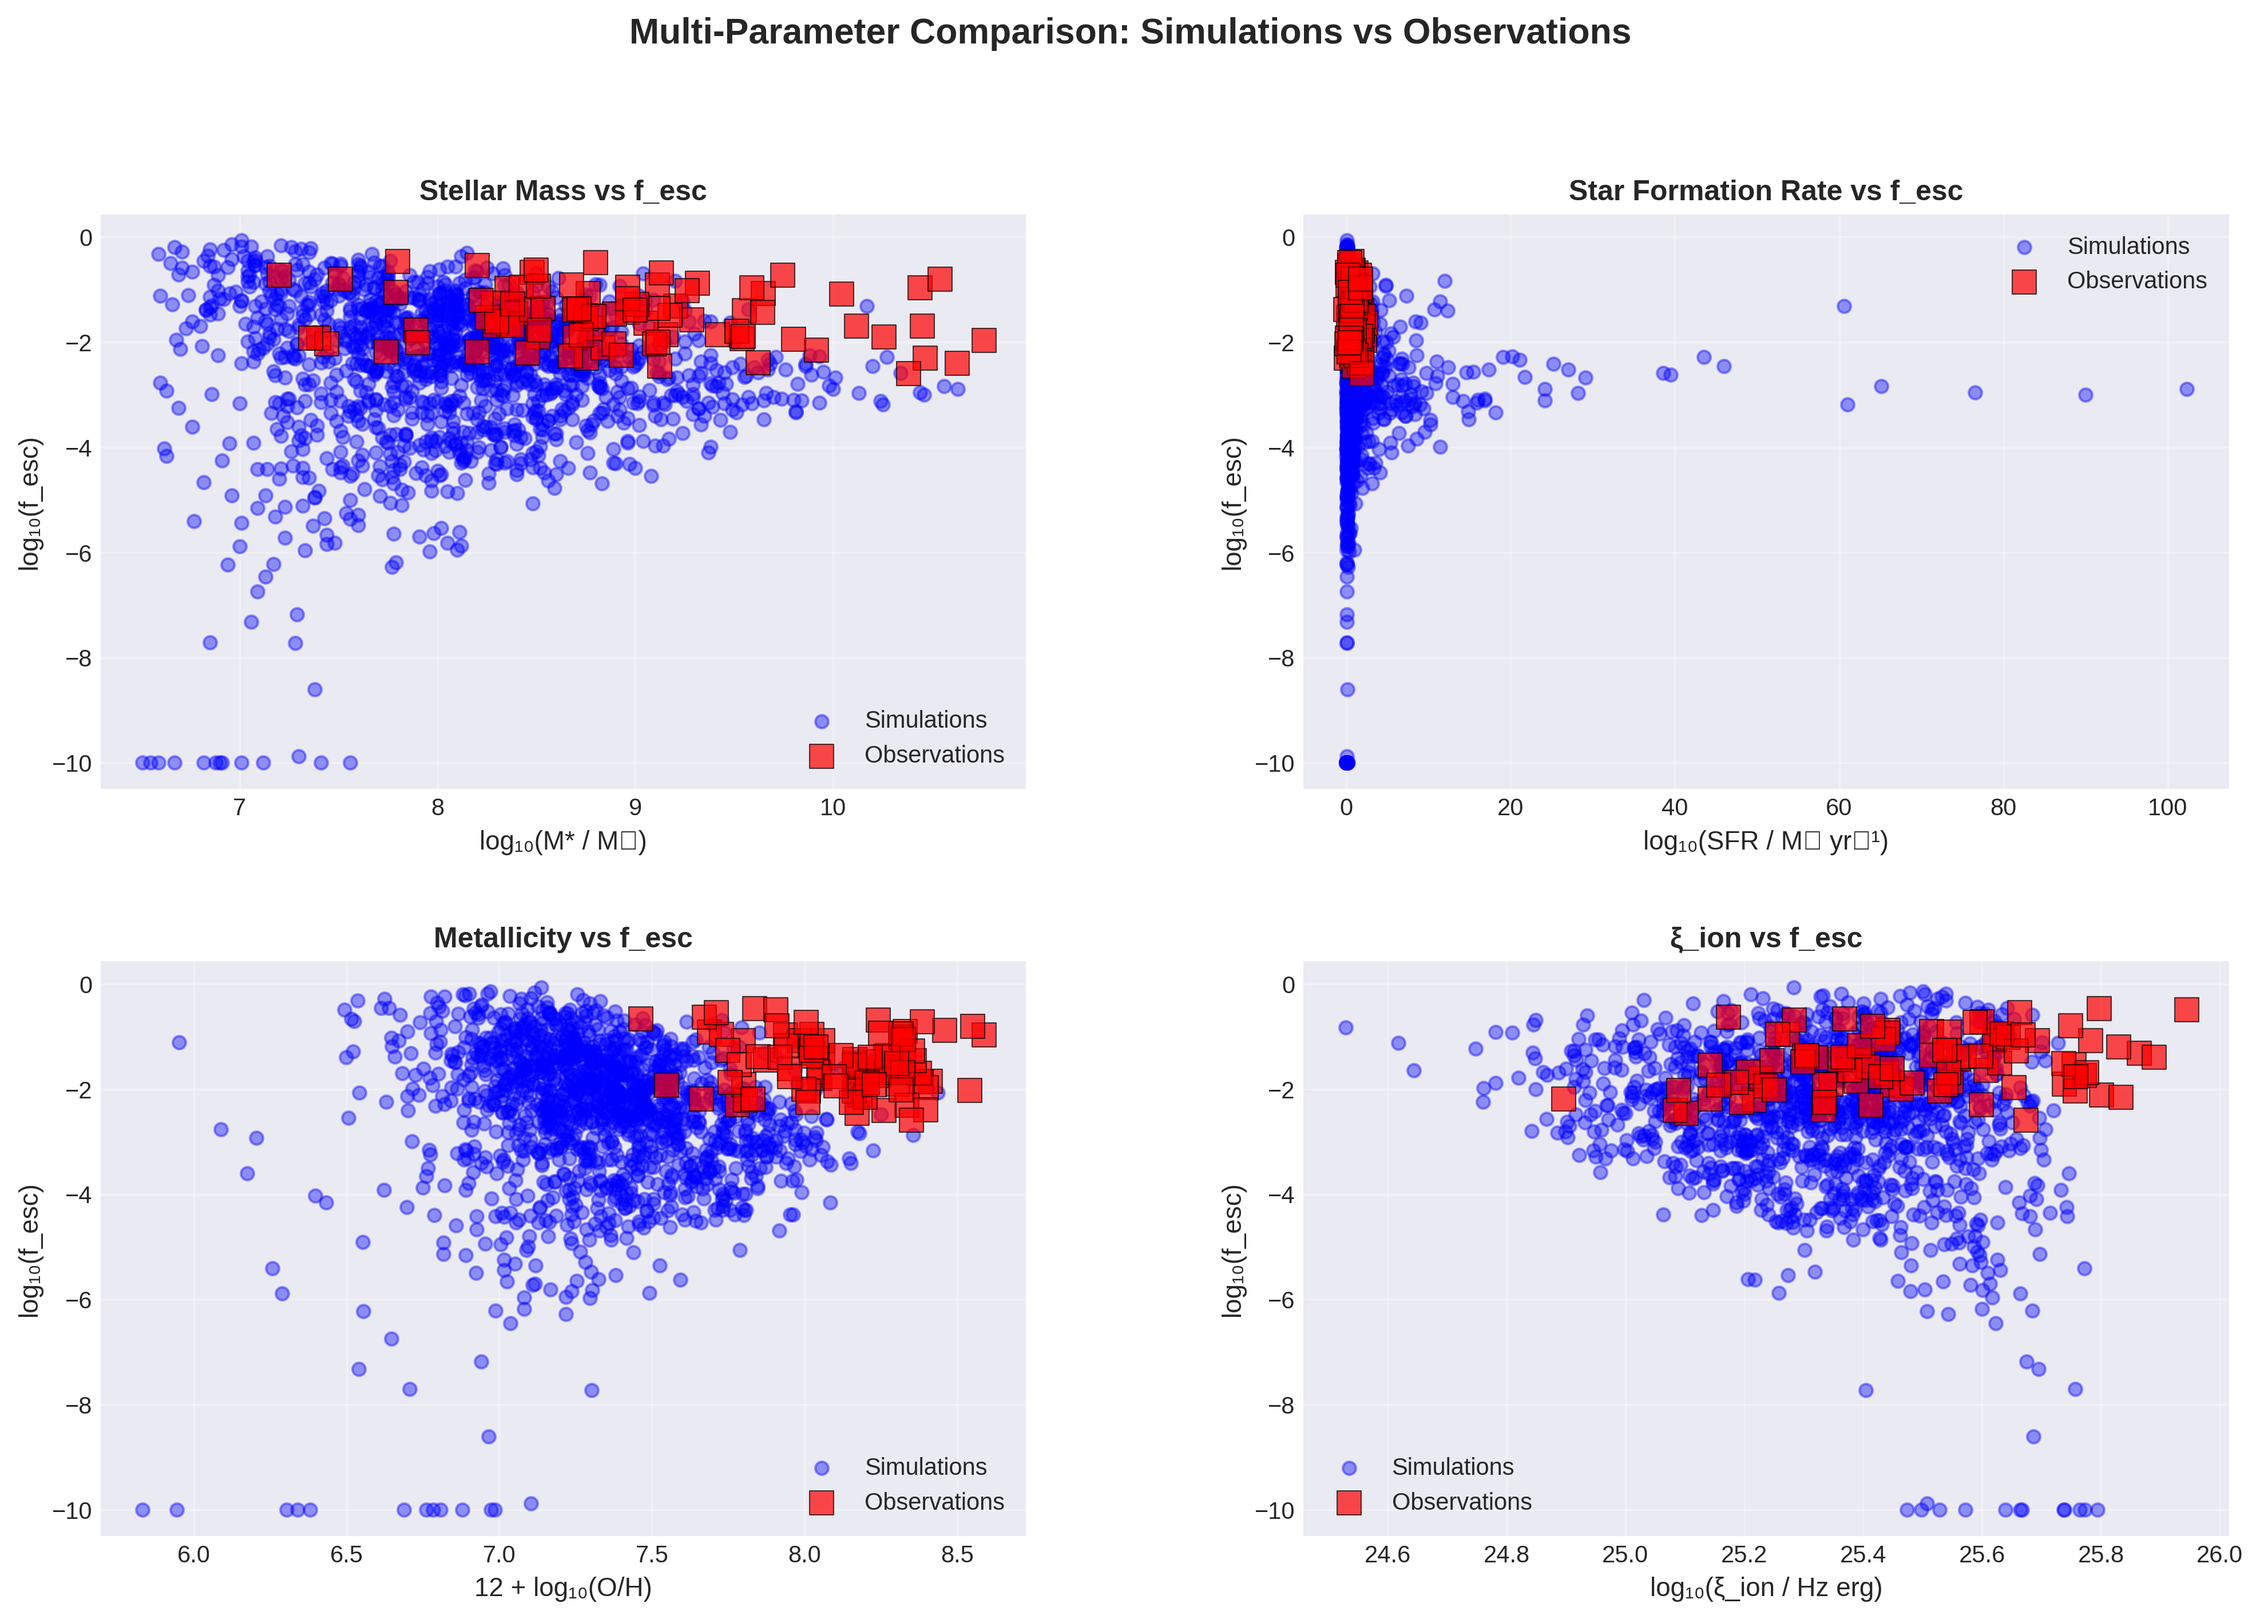
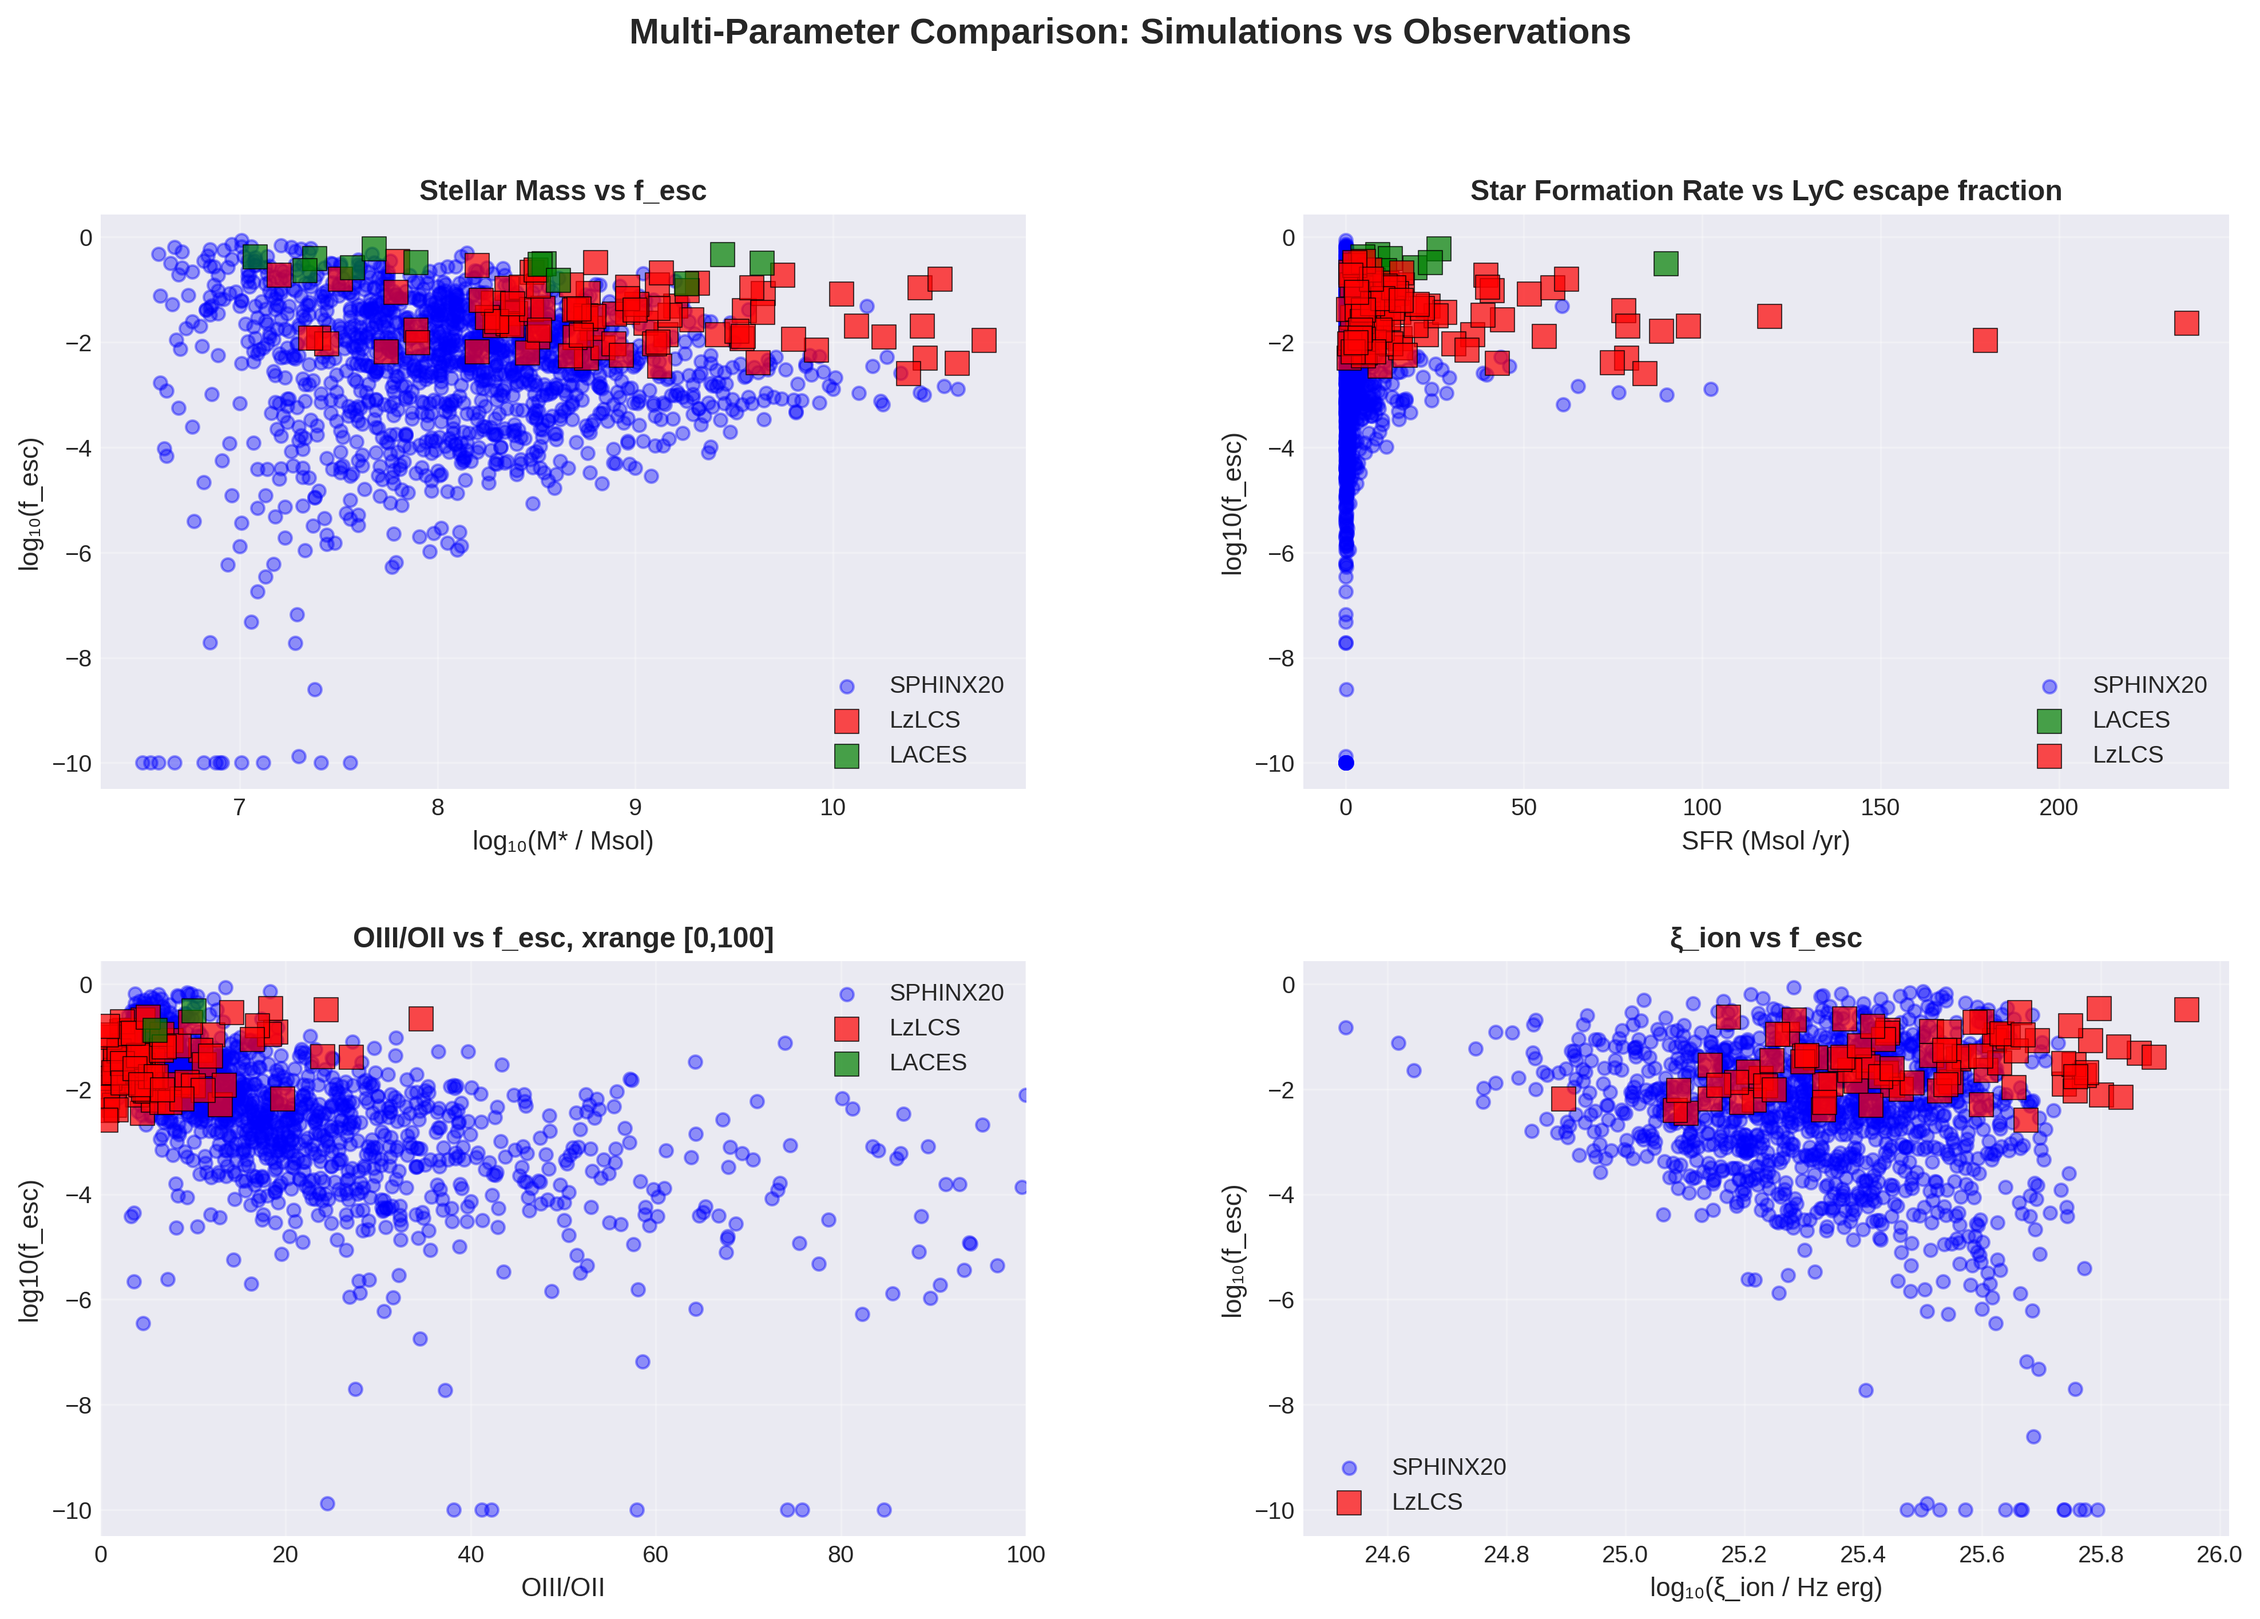
added Fletcher+19 observations

diff --git a/sphinx_analysis/analyser/SphinxLycAnalyser.py b/sphinx_analysis/analyser/SphinxLycAnalyser.py
@@ -33,6 +33,8 @@ class SPHINXLyCAnalyzer:
         print("Loading SPHINX20 data...")
         self.df = pd.read_csv(filepath)
         self.observations = pd.read_csv(observations)
+        # self.control = pd.read_csv(control)
+
         print(f"Loaded {len(self.df)} galaxies")
 
 
@@ -40,6 +42,10 @@ class SPHINXLyCAnalyzer:
         self.df['f_esc_linear'] = 10 ** self.df['f_esc']
         self.df['stellar_mass_linear'] = 10 ** self.df['stellar_mass']
         self.df['ionizing_luminosity_linear'] = 10 ** self.df['ionizing_luminosity']
+        # Same for the control sample
+        # self.control['A_SFR_l'] = 10 ** self.control['A_SFR']
+        # self.control['A_SFR_error_l'] = 10 ** self.control['A_SFR_error']
+
 
         # Calculate mean directional escape fraction (total of dir=10)
         fesc_dir_cols = [col for col in self.df.columns if col.startswith('fesc_dir_')]
@@ -655,7 +661,7 @@ class SPHINXLyCAnalyzer:
         mask_obs = self.observations['f_esc(LyC)-Hbeta'].notna()
         obs_fesc = np.log10(self.observations.loc[mask_obs, 'f_esc(LyC)-Hbeta'])
         ax.hist(obs_fesc, bins=20, alpha=0.5,
-                label='Observations', color='red', edgecolor='black')
+                label='LzLCS', color='red', edgecolor='black')
 
         ax.set_xlabel('log₁₀(f_esc)', fontsize=13)
         ax.set_ylabel('Number of Galaxies', fontsize=13)
@@ -673,21 +679,42 @@ class SPHINXLyCAnalyzer:
         Create a comprehensive multi-panel comparison plot.
         Shows: mass-fesc, SFR-fesc, metallicity-fesc, and xi_ion-fesc
         """
+        fletcher_path = '/home/mezziati/Documents/IAP/SPHINX20/data/fletcher.csv'
+        print("Loading SPHINX20 data...")
+        fletcher_data = pd.read_csv(fletcher_path)
+        print(f"Loaded {len(fletcher_data)} galaxies")
+        columns = fletcher_data.columns.tolist()
+        print(columns[:10])
+
+        fesc = fletcher_data['f_esc']
+        print(fesc)
         fig = plt.figure(figsize=figsize)
         gs = fig.add_gridspec(2, 2, hspace=0.3, wspace=0.3)
 
         # 1. Mass vs f_esc
         ax1 = fig.add_subplot(gs[0, 0])
         ax1.scatter(self.df['stellar_mass'], self.df['f_esc'],
-                    alpha=0.4, s=30, label='Simulations', color='blue')
+                    alpha=0.4, s=30, label='SPHINX20', color='blue')
+
+
         mask_obs = (self.observations['f_esc(LyC)-Hbeta'].notna() &
                     self.observations['log10(Mstar)'].notna())
+        mask_fletcher = (fletcher_data['f_esc'].notna() &
+                    fletcher_data['M_star'].notna())
+
+
         obs_fesc = np.log10(self.observations.loc[mask_obs, 'f_esc(LyC)-Hbeta'])
         obs_mass = self.observations.loc[mask_obs, 'log10(Mstar)']
+
+        fletcher_fesc = np.log10(fletcher_data.loc[mask_fletcher, 'f_esc'])
+        fletcher_mass = fletcher_data.loc[mask_fletcher, 'M_star']
         ax1.scatter(obs_mass, obs_fesc,
-                    alpha=0.7, s=100, label='Observations',
+                    alpha=0.7, s=100, label='LzLCS',
                     color='red', marker='s', edgecolors='black', linewidth=0.5)
-        ax1.set_xlabel('log₁₀(M* / M☉)', fontsize=11)
+        ax1.scatter(fletcher_mass, fletcher_fesc,
+                    alpha=0.7, s=100, label='LACES',
+                    color='green', marker='s', edgecolors='black', linewidth=0.5)
+        ax1.set_xlabel('log₁₀(M* / Msol)', fontsize=11)
         ax1.set_ylabel('log₁₀(f_esc)', fontsize=11)
         ax1.set_title('Stellar Mass vs f_esc', fontsize=12, fontweight='bold')
         ax1.legend()
@@ -696,17 +723,33 @@ class SPHINXLyCAnalyzer:
         # 2. SFR vs f_esc
         ax2 = fig.add_subplot(gs[0, 1])
         ax2.scatter(self.df['sfr_100'], self.df['f_esc'],
-                    alpha=0.4, s=30, label='Simulations', color='blue')
+                    alpha=0.4, s=30, label='SPHINX20', color='blue')
+
+        # Observation masks
+        mask_fletcher = (fletcher_data['f_esc'].notna() &
+                    fletcher_data['A_SFR'].notna())
+
         mask_obs = (self.observations['f_esc(LyC)-Hbeta'].notna() &
                     self.observations['log10(SFR)-UV'].notna())
         obs_fesc = np.log10(self.observations.loc[mask_obs, 'f_esc(LyC)-Hbeta'])
         obs_sfr = self.observations.loc[mask_obs, 'log10(SFR)-UV']
-        ax2.scatter(obs_sfr, obs_fesc,
-                    alpha=0.7, s=100, label='Observations',
+
+        #TODO: include fletcher data  in the class contructor as an **args
+
+        fletcher_fesc = np.log10(fletcher_data.loc[mask_fletcher, 'f_esc'])
+        fletcher_sfr = fletcher_data.loc[mask_fletcher, 'A_SFR']
+
+        ax2.scatter(fletcher_sfr, fletcher_fesc,
+                    alpha=0.7, s=100, label='LACES',
+                    color='green', marker='s', edgecolors='black', linewidth=0.5)
+
+        ax2.scatter(10**obs_sfr, obs_fesc,
+                    alpha=0.7, s=100, label='LzLCS',
                     color='red', marker='s', edgecolors='black', linewidth=0.5)
-        ax2.set_xlabel('log₁₀(SFR / M☉ yr⁻¹)', fontsize=11)
-        ax2.set_ylabel('log₁₀(f_esc)', fontsize=11)
-        ax2.set_title('Star Formation Rate vs f_esc', fontsize=12, fontweight='bold')
+
+        ax2.set_xlabel('SFR (Msol /yr)', fontsize=11)
+        ax2.set_ylabel('log10(f_esc)', fontsize=11)
+        ax2.set_title('Star Formation Rate vs LyC escape fraction', fontsize=12, fontweight='bold')
         ax2.legend()
         ax2.grid(True, alpha=0.3)
 
@@ -714,33 +757,63 @@ class SPHINXLyCAnalyzer:
         ax3 = fig.add_subplot(gs[1, 0])
         # Convert simulation metallicity from log(Z/Z☉) to 12+log(O/H)
         solar_oh = 8.69
-        sim_metallicity = self.df['gas_metallicity'] + solar_oh
 
-        ax3.scatter(sim_metallicity, self.df['f_esc'],
-                    alpha=0.4, s=30, label='Simulations', color='blue')
+        # OBS
+        O2_obs = self.observations['O2_3726A']+ self.observations['O2_3729A']
+        O3_obs = self.observations['O3_4959A'] + self.observations['O3_5007A']
+        O32_obs=O3_obs/O2_obs
+
+        #SIM
+
+        O2_sim = self.df['O__2_3726.03A_int'] +self.df['O__2_3728.81A_int']
+        O3_sim = self.df['O__3_4958.91A_int']+ self.df['O__3_5006.84A_int']
+        O32 = O3_sim/O2_sim
+
+
+
+        ax3.scatter(O32, self.df['f_esc'],
+                    alpha=0.4, s=30, label='SPHINX20', color='blue')
+
         mask_obs = (self.observations['f_esc(LyC)-Hbeta'].notna() &
-                    self.observations['OH_12'].notna())
+                    O32_obs.notna())
+
+        mask_fletcher = (fletcher_data['f_esc'].notna() &
+                    O32_obs.notna())
+
+
+
+
         obs_fesc = np.log10(self.observations.loc[mask_obs, 'f_esc(LyC)-Hbeta'])
-        obs_metal = self.observations.loc[mask_obs, 'OH_12']  # Already in 12+log(O/H)
+        obs_metal = O32_obs[mask_obs]  # Already in 12+log(O/H)
+
+        fletcher_fesc = np.log10(fletcher_data.loc[mask_fletcher, 'f_esc'])
+        fletcher_metal = fletcher_data.loc[mask_fletcher, 'O3/02']  # Already in 12+log(O/H)
+
+
         ax3.scatter(obs_metal, obs_fesc,
-                    alpha=0.7, s=100, label='Observations',
+                    alpha=0.7, s=100, label='LzLCS',
                     color='red', marker='s', edgecolors='black', linewidth=0.5)
-        ax3.set_xlabel('12 + log₁₀(O/H)', fontsize=11)
+        ax3.scatter(fletcher_metal, fletcher_fesc,
+                    alpha=0.7, s=100, label='LACES',
+                    color='green', marker='s', edgecolors='black', linewidth=0.5)
+        ax3.set_xlabel('OIII/OII', fontsize=11)
+        ax3.set_xlim(0,100)
+
         ax3.set_ylabel('log₁₀(f_esc)', fontsize=11)
-        ax3.set_title('Metallicity vs f_esc', fontsize=12, fontweight='bold')
+        ax3.set_title('OIII/OII vs f_esc, xrange [0,100]', fontsize=12, fontweight='bold')
         ax3.legend()
         ax3.grid(True, alpha=0.3)
 
         # 4. xi_ion vs f_esc
         ax4 = fig.add_subplot(gs[1, 1])
         ax4.scatter(self.df['xi_ion'], self.df['f_esc'],
-                    alpha=0.4, s=30, label='Simulations', color='blue')
+                    alpha=0.4, s=30, label='SPHINX20', color='blue')
         mask_obs = (self.observations['f_esc(LyC)-Hbeta'].notna() &
                     self.observations['xi-ion'].notna())
         obs_fesc = np.log10(self.observations.loc[mask_obs, 'f_esc(LyC)-Hbeta'])
         obs_xi = self.observations.loc[mask_obs, 'xi-ion']
         ax4.scatter(obs_xi, obs_fesc,
-                    alpha=0.7, s=100, label='Observations',
+                    alpha=0.7, s=100, label='LzLCS',
                     color='red', marker='s', edgecolors='black', linewidth=0.5)
         ax4.set_xlabel('log₁₀(ξ_ion / Hz erg)', fontsize=11)
         ax4.set_ylabel('log₁₀(f_esc)', fontsize=11)
@@ -1213,13 +1286,13 @@ def main():
     analyzer.plot_multiparameter_comparison(save_path=home_path+'comprehensive_comparison.png')
 
     # Call the new indirect indicator plots:
-    analyzer.plot_o32_vs_metallicity(save_path=home_path + 'o32_metallicity.png')
-    analyzer.plot_ew_hbeta_vs_mass(save_path=home_path + 'ew_mass.png')
-    analyzer.plot_uv_slope_vs_metallicity(save_path=home_path + 'beta_metallicity.png')
-    analyzer.plot_ssfr_vs_mass(save_path=home_path + 'ssfr_mass.png')
-    analyzer.plot_o32_vs_ew_hbeta(save_path=home_path + 'o32_ew_diagnostic.png')
-    analyzer.plot_compactness_diagnostic(save_path=home_path + 'compactness.png')
-    analyzer.plot_lya_lyc_comparison(save_path=home_path + 'lya_lyc.png')
+    # analyzer.plot_o32_vs_metallicity(save_path=home_path + 'o32_metallicity.png')
+    # analyzer.plot_ew_hbeta_vs_mass(save_path=home_path + 'ew_mass.png')
+    # analyzer.plot_uv_slope_vs_metallicity(save_path=home_path + 'beta_metallicity.png')
+    # analyzer.plot_ssfr_vs_mass(save_path=home_path + 'ssfr_mass.png')
+    # analyzer.plot_o32_vs_ew_hbeta(save_path=home_path + 'o32_ew_diagnostic.png')
+    # analyzer.plot_compactness_diagnostic(save_path=home_path + 'compactness.png')
+    # analyzer.plot_lya_lyc_comparison(save_path=home_path + 'lya_lyc.png')
 
     print("\n" + "=" * 60)
     print("ANALYSIS COMPLETE!")

diff --git a/previous_lyc_measurements_analyse.py b/previous_lyc_measurements_analyse.py
@@ -2,9 +2,13 @@ import pandas as pd
 import numpy as np
 import matplotlib.pyplot as plt
 
-filepath='/home/mezziati/Documents/IAP/SPHINX20/data/previous_Lyc_measumenets.csv'
+fletcher_path='/home/mezziati/Documents/IAP/SPHINX20/data/fletcher.csv'
 print("Loading SPHINX20 data...")
-df = pd.read_csv(filepath)
-print(f"Loaded {len(df)} galaxies")
-columns=df.columns.tolist()
-print(columns)
+fletcher_data = pd.read_csv(fletcher_path)
+print(f"Loaded {len(fletcher_data)} galaxies")
+columns=fletcher_data.columns.tolist()
+print(columns[:10])
+
+fesc=fletcher_data['f_esc']
+print(fesc)
+

diff --git a/sphinx_analysis/catalogues/ObservationCatalogue.py b/sphinx_analysis/catalogues/ObservationCatalogue.py
@@ -1,5 +1,5 @@
 """
-Observation catalogue class for observational data (e.g., Flury et al.).
+Observation catalogue class for observational data (e.g., Flury+25, Fletcher+19).
 """
 
 import numpy as np
